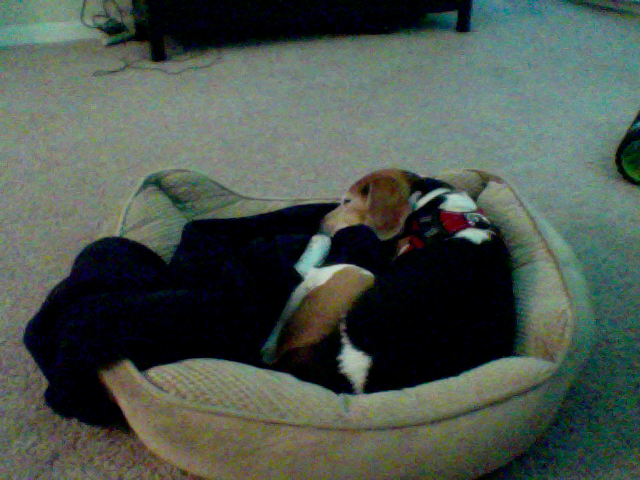
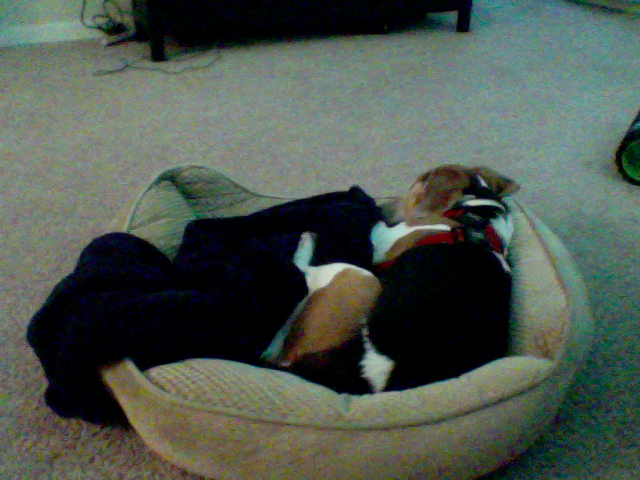
update at Month05Day13Time08:43

diff --git a/index.html b/index.html
@@ -40,7 +40,7 @@
       <div class="row">
         <div class="col-md-4">
 	<p>This picture was updated at Month05Day13Time08:43</p>
-		<img src="9_pic.png" />
+		<img src="7_pic.png" />
         </div>
       </div>
 
